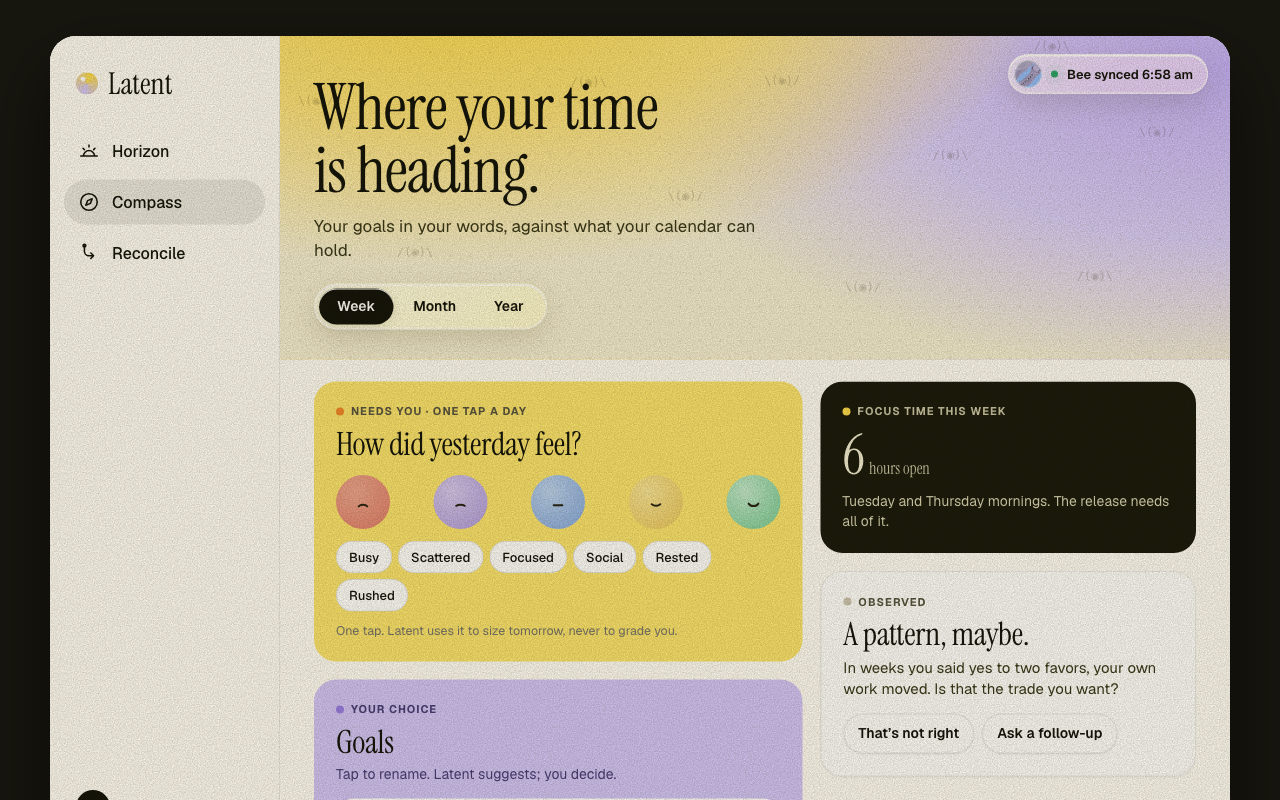
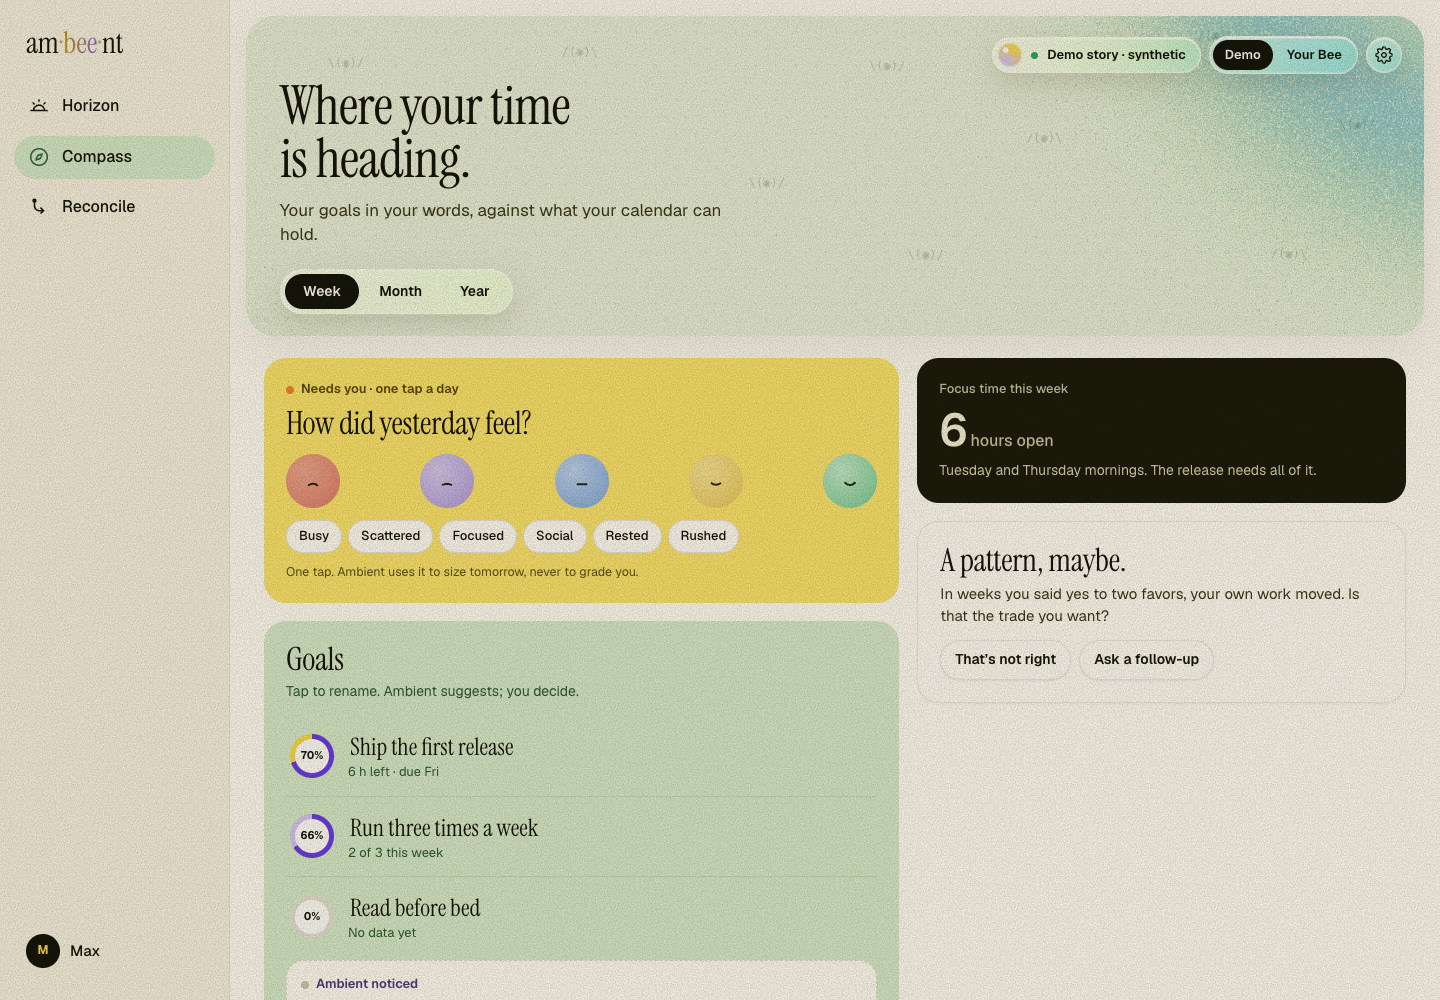
Refresh Ambient submission screenshots and branding

diff --git a/app/public/workspace.js b/app/public/workspace.js
@@ -114,7 +114,7 @@ function editGrow(item={}){
 let lastMerge=null;
 function renderReconcile(){
   const groups=(ledger.today?.duplicates||[]).filter(g=>g.ids.every(id=>ledger.items.find(item=>item.id===id)?.sourceKind==='todo')),extra=groups.reduce((n,g)=>n+g.count-1,0);
-  $('main').innerHTML=`<div class="page-meta"><span>Reconcile</span><span class="demo-chip">${workspace.synthetic?'Sample record':'Your Bee record'}</span></div><h1>These tasks may<br>be the same thing.</h1><p class="intro">Bee recorded some promises more than once. Check the copies, then keep one if they refer to the same task.</p><div class="reconcile-summary"><span><strong>${groups.length}</strong> groups to review</span><span><strong>${extra}</strong> possible extra copies</span>${lastMerge?'<button id="undo-merge">Undo last change</button>':''}</div><section class="reconcile-list" aria-label="Possible duplicate tasks">${groups.map((g,i)=>`<details class="duplicate-group"><summary><div class="duplicate-count" aria-label="${g.count} copies">${g.count}</div><div><h3>${esc(g.text)}</h3><p>${g.count} copies in your record</p></div><span class="review-label">Review <span aria-hidden="true">↓</span></span></summary><div class="duplicate-evidence">${g.ids.map(id=>{const item=ledger.items.find(item=>item.id===id);return `<div class="duplicate-source"><p>“${esc(item?.quote||g.text)}”</p><small>${esc(item?.source||'Bee task record')}</small></div>`}).join('')}<p class="quiet">Only combine these if they describe the same occurrence. Repeated chores and meetings may need separate tasks.</p><button class="primary" data-merge-group="${i}">Keep one copy</button><p class="quiet local-note">Changes your Latent record. Bee’s original tasks stay as they are.</p></div></details>`).join('')||'<div class="empty"><h2>No duplicate groups to review.</h2><p>Your remaining tasks stay in your record.</p></div>'}</section><section class="facts-note"><img src="/icons/brain.svg" alt=""><div><h3>${reconcile.summary.factsKeptPendingEvidence||0} facts need more evidence.</h3><p>We haven’t found enough support to confirm or remove them. Their status stays unchanged.</p><details><summary>How Latent checks a fact</summary><p>A newer, dated source needs to support the same fact. A calendar entry can establish that something was scheduled, but not that it happened.</p></details></div></section>`;
+  $('main').innerHTML=`<div class="page-meta"><span>Reconcile</span><span class="demo-chip">${workspace.synthetic?'Sample record':'Your Bee record'}</span></div><h1>These tasks may<br>be the same thing.</h1><p class="intro">Bee recorded some promises more than once. Check the copies, then keep one if they refer to the same task.</p><div class="reconcile-summary"><span><strong>${groups.length}</strong> groups to review</span><span><strong>${extra}</strong> possible extra copies</span>${lastMerge?'<button id="undo-merge">Undo last change</button>':''}</div><section class="reconcile-list" aria-label="Possible duplicate tasks">${groups.map((g,i)=>`<details class="duplicate-group"><summary><div class="duplicate-count" aria-label="${g.count} copies">${g.count}</div><div><h3>${esc(g.text)}</h3><p>${g.count} copies in your record</p></div><span class="review-label">Review <span aria-hidden="true">↓</span></span></summary><div class="duplicate-evidence">${g.ids.map(id=>{const item=ledger.items.find(item=>item.id===id);return `<div class="duplicate-source"><p>“${esc(item?.quote||g.text)}”</p><small>${esc(item?.source||'Bee task record')}</small></div>`}).join('')}<p class="quiet">Only combine these if they describe the same occurrence. Repeated chores and meetings may need separate tasks.</p><button class="primary" data-merge-group="${i}">Keep one copy</button><p class="quiet local-note">Changes your Ambient record. Bee’s original tasks stay as they are.</p></div></details>`).join('')||'<div class="empty"><h2>No duplicate groups to review.</h2><p>Your remaining tasks stay in your record.</p></div>'}</section><section class="facts-note"><img src="/icons/brain.svg" alt=""><div><h3>${reconcile.summary.factsKeptPendingEvidence||0} facts need more evidence.</h3><p>We haven’t found enough support to confirm or remove them. Their status stays unchanged.</p><details><summary>How Ambient checks a fact</summary><p>A newer, dated source needs to support the same fact. A calendar entry can establish that something was scheduled, but not that it happened.</p></details></div></section>`;
   document.querySelectorAll('[data-merge-group]').forEach(button=>button.onclick=async()=>{const group=groups[Number(button.dataset.mergeGroup)],entries=group.ids.map(id=>({id,priorState:ledger.items.find(item=>item.id===id)?.state}));button.disabled=true;try{const result=await api('merge',{ids:group.ids});ledger=result.ledger;lastMerge=entries;render();notify(`Kept one copy. ${result.merged} extra ${result.merged===1?'copy removed':'copies removed'}.`);}catch(e){button.disabled=false;notify(e.message)}});
   if($('undo-merge'))$('undo-merge').onclick=async()=>{try{ledger=(await api('commitments/restore',{entries:lastMerge})).ledger;lastMerge=null;render();notify('The original copies are back.');}catch(e){notify(e.message)}};
 }

diff --git a/app/public/workspace.html b/app/public/workspace.html
@@ -1,1 +1,1 @@
-<!doctype html><html lang="en"><head><meta charset="utf-8"><meta name="viewport" content="width=device-width,initial-scale=1"><title>Latent · Room for what matters</title><link rel="icon" href="/icon-192.png"><link rel="stylesheet" href="/workspace.css"><script src="/workspace.js" defer></script></head><body><div class="shell"><aside><a class="brand" href="/">latent<span class="brand-dot" aria-hidden="true"></span></a><p class="tagline">Room for what matters.</p><nav aria-label="Main navigation"><button data-view="horizon" aria-current="page"><img src="/icons/house.svg" alt=""> Horizon</button><button data-view="grow"><img src="/icons/brain.svg" alt=""> Grow</button><button data-view="reconcile"><img src="/icons/check-square.svg" alt=""> Reconcile</button></nav><div id="connection" class="connection"></div><small><details><summary>About this demo</summary><a href="/legacy">Earlier interface</a><p>Sample person and calendar. Real sends need the demo account.</p></details></small></aside><main id="main" aria-live="polite"><p>Reading your local context…</p></main></div><div id="notice" role="status"></div><dialog id="dialog"><button id="close-dialog" class="close" aria-label="Close">×</button><div id="dialog-content"></div></dialog></body></html>
+<!doctype html><html lang="en"><head><meta charset="utf-8"><meta name="viewport" content="width=device-width,initial-scale=1"><title>Ambient · Room for what matters</title><link rel="icon" href="/icon-192.png"><link rel="stylesheet" href="/workspace.css"><script src="/workspace.js" defer></script></head><body><div class="shell"><aside><a class="brand" href="/">ambient<span class="brand-dot" aria-hidden="true"></span></a><p class="tagline">Room for what matters.</p><nav aria-label="Main navigation"><button data-view="horizon" aria-current="page"><img src="/icons/house.svg" alt=""> Horizon</button><button data-view="grow"><img src="/icons/brain.svg" alt=""> Grow</button><button data-view="reconcile"><img src="/icons/check-square.svg" alt=""> Reconcile</button></nav><div id="connection" class="connection"></div><small><details><summary>About this demo</summary><a href="/legacy">Earlier interface</a><p>Sample person and calendar. Real sends need the demo account.</p></details></small></aside><main id="main" aria-live="polite"><p>Reading your local context…</p></main></div><div id="notice" role="status"></div><dialog id="dialog"><button id="close-dialog" class="close" aria-label="Close">×</button><div id="dialog-content"></div></dialog></body></html>

diff --git a/README.md b/README.md
@@ -4,7 +4,7 @@
 
 Bee remembers everything you say. Ambient decides what's worth your attention.
 
-> **Elevator pitch (200 chars):** Bee remembers everything you say. Ambient decides what's worth your attention—merging duplicates, checking promises against your calendar, and showing real tradeoffs before you commit.
+> **Elevator pitch:** Ambient turns Bee conversations into action, checks promises against your calendar, explains when it acts or waits, keeps receipts, and coordinates with others’ agents. No group chat needed.
 
 Ambient is an ambient agent that sits on top of your [Bee](https://bee.computer) record. It reads what you promised, checks it against your calendar and the rest of your record, quietly handles the small stuff, and brings you only the decisions that are actually yours. It does not add another list to look at. It takes things off the one you already have.
 
@@ -93,7 +93,7 @@ npm test            # offline suite
 **From an agent (MCP).** Over stdio for Claude Code and other local agents, or over Streamable HTTP (spec 2025-11-25) at `http://127.0.0.1:4317/mcp` while the app runs. Remote callers need `LATENT_MCP_TOKEN` set and an `Authorization: Bearer` header.
 
 ```bash
-claude mcp add latent -- node /absolute/path/to/app/mcp-server.mjs
+claude mcp add ambient -- node /absolute/path/to/app/mcp-server.mjs
 ```
 
 Then ask: *what should I act on?* or *can I help Jordan with the deck by Thursday?* The [agent skill](skills/ambient/SKILL.md) teaches the workflows.

diff --git a/app/README.md b/app/README.md
@@ -1,4 +1,4 @@
-# Latent
+# Ambient
 
 ## October 20 working build
 
@@ -52,7 +52,7 @@ with completed work; only unique scheduling-intent matches qualify automatically
 
 ---
 
-Latent turns Bee's record into a week-ahead scenario, then shows which record
+Ambient turns Bee's record into a week-ahead scenario, then shows which record
 changes have evidence. Bee data stays in a local SQLite ledger.
 
 Ingest reads the Bee account through the Bee CLI into local SQLite. It keeps the
